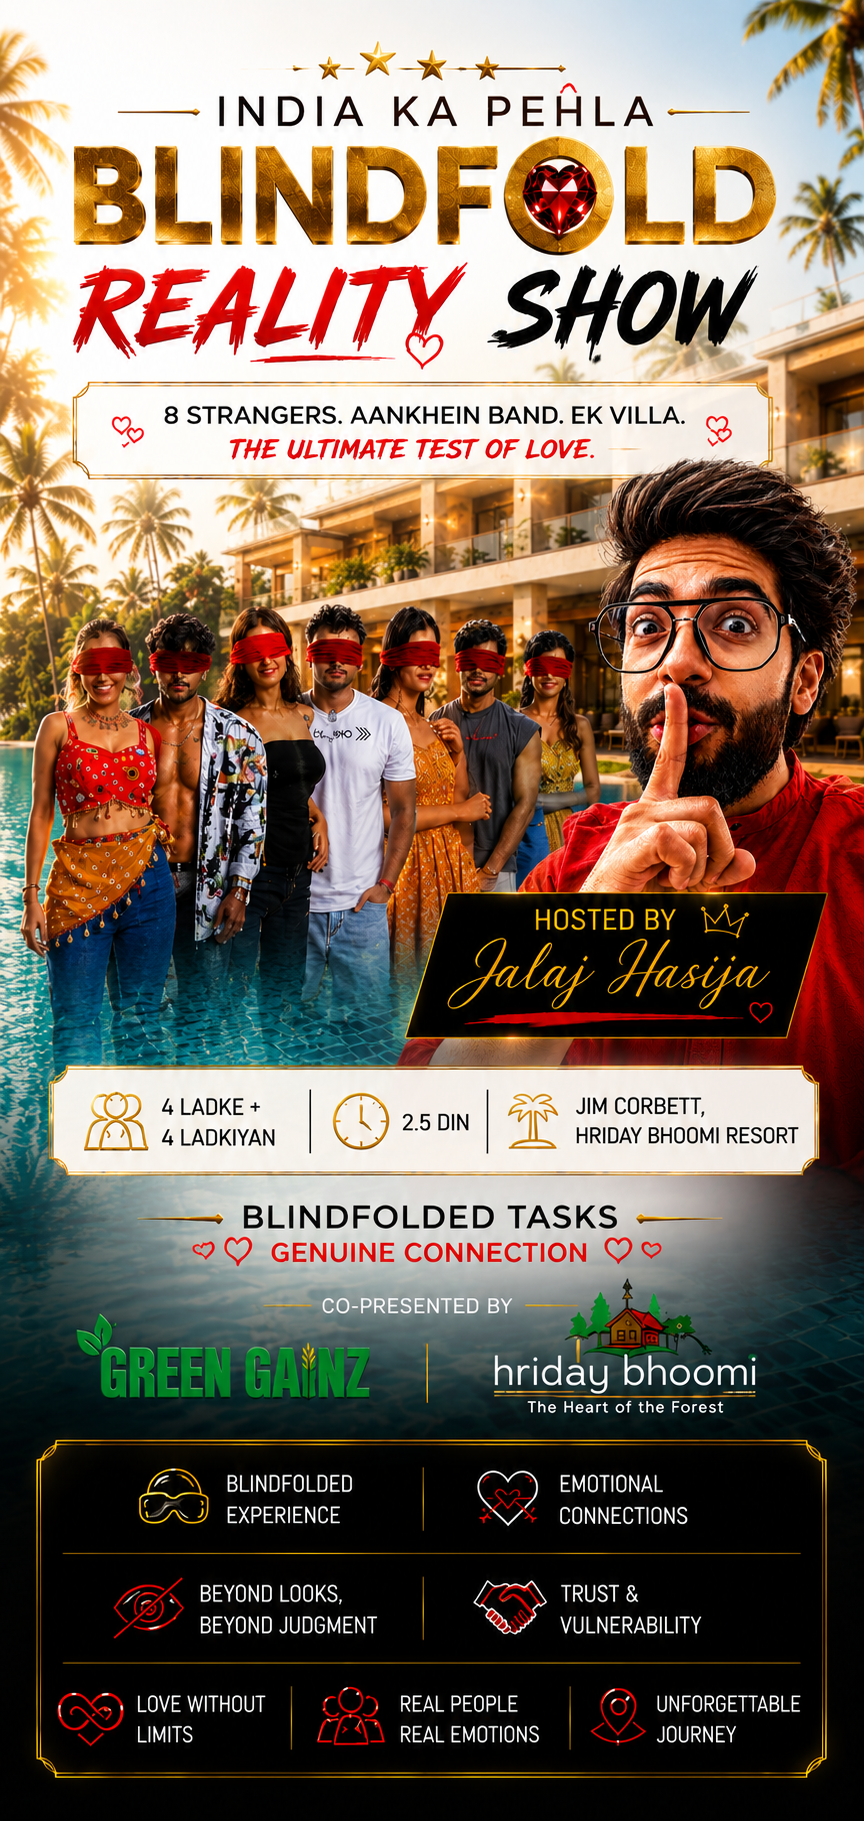
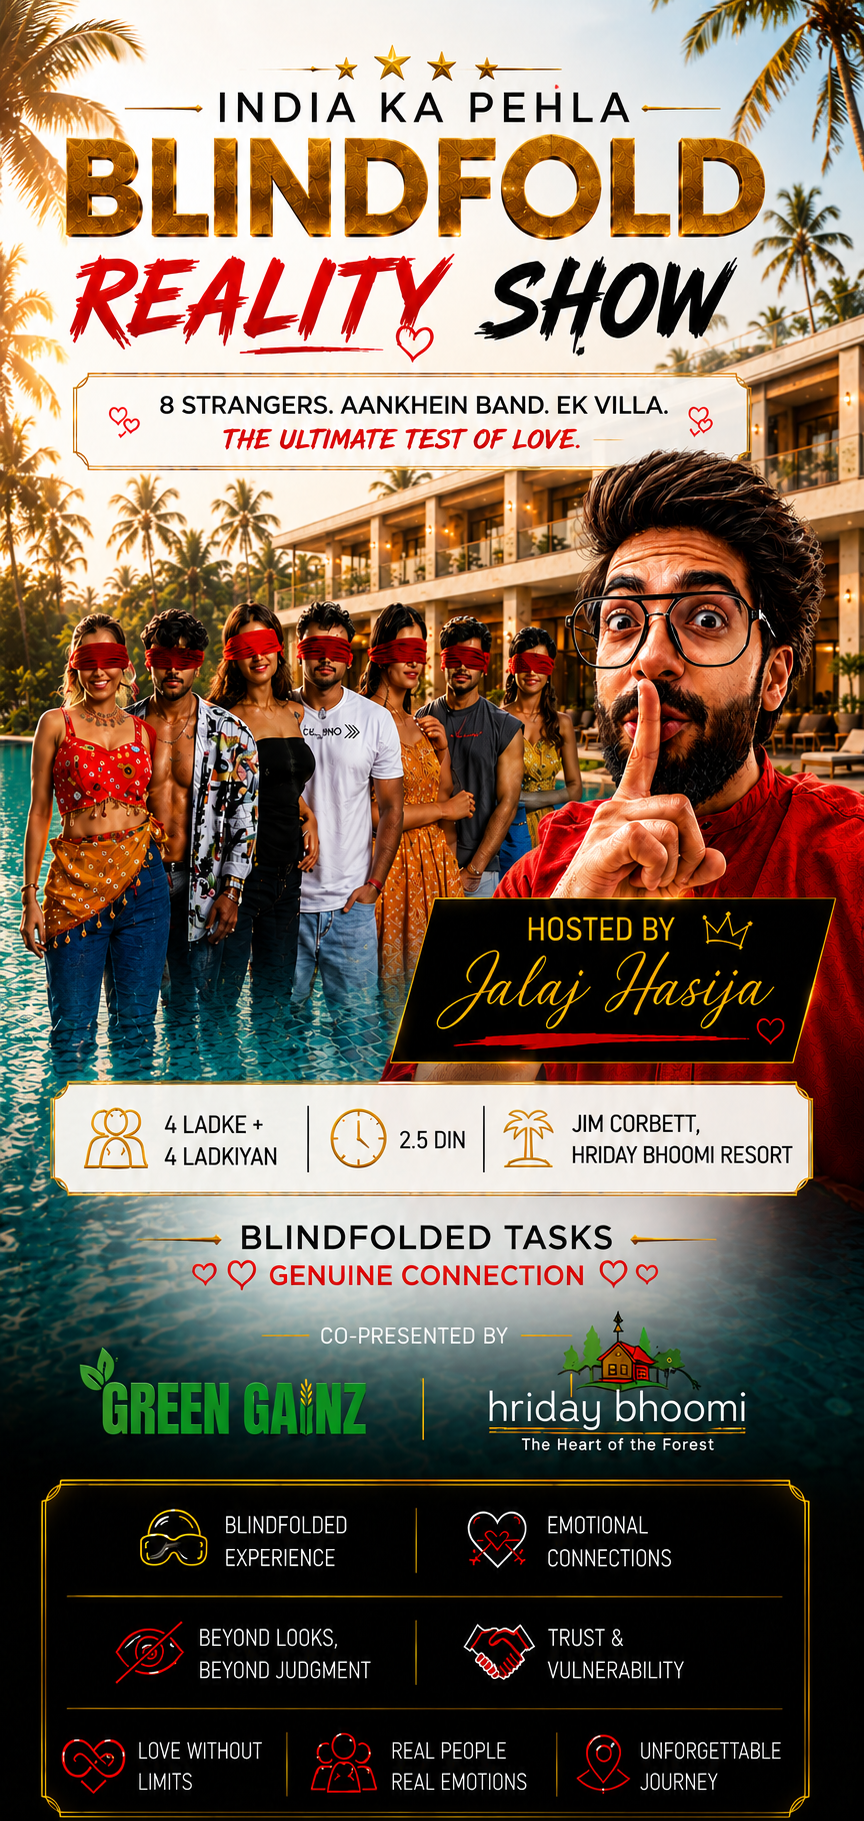
fix jalaj edit

diff --git a/src/app/Data.js b/src/app/Data.js
@@ -1,10 +1,10 @@
 // ─── Blindfold Villa Data ─────────────────────────────────────────────────────
 
 export const NAV_LINKS = [
-  { label: "About",       href: "#about" },
+  { label: "About", href: "#about" },
   { label: "Contestants", href: "#contestants" },
-  { label: "Episodes",    href: "#episodes" },
-  { label: "Tasks",       href: "#tasks" },
+  { label: "Episodes", href: "#episodes" },
+  { label: "Tasks", href: "#tasks" },
 ];
 
 export const HERO_TAGLINES = [
@@ -14,14 +14,14 @@ export const HERO_TAGLINES = [
 ];
 
 export const CONTESTANTS = [
-  { img: "/contestant4.jpeg",  name: "Manpreet Singh",  archetype: "The Playboy",       archetypeColor: "#cc0022", oneliner: "Charisma is a weapon. He knows how to use it.",     gender: "male" },
-  { img: "/contestant1.jpeg",  name: "Shrerry Ranjan",  archetype: "The Manipulator",   archetypeColor: "#cc0022", oneliner: "She never shows her cards. Until it's too late.",    gender: "female" },
-  { img: "/contestant2.jpeg",  name: "Shweta Panchal",  archetype: "The Silent Killer", archetypeColor: "#cc0022", oneliner: "Says the least. Feels the most. Wins the game.",    gender: "female" },
-  { img: "/contestant5.jpeg",  name: "Yashika Tyagi",  archetype: "The Green Flag",    archetypeColor: "#cc0022", oneliner: "Too good to be true? Or exactly what he seems?",    gender: "male" },
-  { img: "/contestant3.jpeg", name: "Prashasti Pathak", archetype: "The Overthinker",   archetypeColor: "#ff6600", oneliner: "Logic versus emotion. He's losing the battle.",      gender: "male" },
-  { img: "/sushant.jpeg",  name: "Sushant Sharma",  archetype: "The Wildcard",      archetypeColor: "#ff6600", oneliner: "No one predicted her. No one was ready.",            gender: "female" },
-  { img: "/naman.jpeg",  name: "Naman Sachdeva",  archetype: "The Protector",     archetypeColor: "#ff6600", oneliner: "He came to connect. He stayed to defend.",           gender: "male" },
-  { img: "/contestant6.jpeg",  name: "Tushar Mehra",  archetype: "The Heartbreaker",  archetypeColor: "#ff6600", oneliner: "She didn't mean to. She never does.",               gender: "female" },
+  { img: "/contestant4.jpeg", name: "Manpreet Singh", archetype: "The Playboy", archetypeColor: "#cc0022", oneliner: "Charisma is a weapon. He knows how to use it.", gender: "male" },
+  { img: "/contestant1.jpeg", name: "Shrerry Ranjan", archetype: "The Manipulator", archetypeColor: "#cc0022", oneliner: "She never shows her cards. Until it's too late.", gender: "female" },
+  { img: "/contestant2.jpeg", name: "Shweta Panchal", archetype: "The Silent Killer", archetypeColor: "#cc0022", oneliner: "Says the least. Feels the most. Wins the game.", gender: "female" },
+  { img: "/contestant5.jpeg", name: "Yashika Tyagi", archetype: "The Green Flag", archetypeColor: "#cc0022", oneliner: "Too good to be true? Or exactly what he seems?", gender: "male" },
+  { img: "/contestant3.jpeg", name: "Prashasti Pathak", archetype: "The Overthinker", archetypeColor: "#ff6600", oneliner: "Logic versus emotion. He's losing the battle.", gender: "male" },
+  { img: "/sushant.jpeg", name: "Sushant Sharma", archetype: "The Wildcard", archetypeColor: "#ff6600", oneliner: "No one predicted her. No one was ready.", gender: "female" },
+  { img: "/naman.jpeg", name: "Naman Sachdeva", archetype: "The Protector", archetypeColor: "#ff6600", oneliner: "He came to connect. He stayed to defend.", gender: "male" },
+  { img: "/contestant6.jpeg", name: "Tushar Mehra", archetype: "The Heartbreaker", archetypeColor: "#ff6600", oneliner: "She didn't mean to. She never does.", gender: "female" },
 ];
 
 export const TENSION_UPDATES = [
@@ -35,9 +35,9 @@ export const TENSION_UPDATES = [
 
 export const TASKS = [
   { icon: "👁", title: "Blindfold Touch Identification", desc: "Aankhein band — sirf touch se partner ka unique feature pehchano aur describe karo" },
-  { icon: "🧊", title: "Baraf Paani",                    desc: "Barf ke thande paani mein se real coins nikalo — 45 seconds — coins pe Vaseline lagi hai — almost impossible" },
-  { icon: "⚽", title: "I Got The Balls",                desc: "Dono partners ka ek ek haath aapas mein bandha tha — sirf ek free haath se 20 balls collect karni thi — time ke against" },
-  { icon: "💦", title: "Get Wet Soon",                   desc: "Pool related water challenge — blindfold mein speed aur coordination ka ultimate test" },
+  { icon: "🧊", title: "Baraf Paani", desc: "Barf ke thande paani mein se real coins nikalo — 45 seconds — coins pe Vaseline lagi hai — almost impossible" },
+  { icon: "⚽", title: "I Got The Balls", desc: "Dono partners ka ek ek haath aapas mein bandha tha — sirf ek free haath se 20 balls collect karni thi — time ke against" },
+  { icon: "💦", title: "Get Wet Soon", desc: "Pool related water challenge — blindfold mein speed aur coordination ka ultimate test" },
 ];
 
 export const EPISODES = [
@@ -47,15 +47,15 @@ export const EPISODES = [
 ];
 
 export const SPONSORS = [
-  { name: "Green Gainz",   tagline: "Co-Powered By" },
+  { name: "Green Gainz", tagline: "Co-Powered By" },
   { name: "Hriday Bhoomi", tagline: "Venue Partner" },
 ];
 
 export const SOCIAL_LINKS = [
-  { label: "Instagram", handle: "@blindfoldvilla",      url: "https://instagram.com/blindfoldvilla", icon: "IG" },
-  { label: "Instagram", handle: "@jalajhasija",         url: "https://instagram.com/jalajhasija",    icon: "IG" },
-  { label: "YouTube",   handle: "Jalaj Hasija Vlogs",   url: "https://youtube.com",                  icon: "YT" },
-  { label: "Twitter/X", handle: "@JalajHasija",         url: "https://twitter.com/jalajhasija",      icon: "X"  },
+  { label: "Instagram", handle: "@blindfoldvilla", url: "https://instagram.com/blindfoldvilla", icon: "IG" },
+  { label: "Instagram", handle: "@jalajhasija", url: "https://instagram.com/jalajhasija", icon: "IG" },
+  { label: "YouTube", handle: "Jalaj Hasija Vlogs", url: "https://youtube.com", icon: "YT" },
+  { label: "Twitter/X", handle: "@JalajHasija", url: "https://twitter.com/jalajhasija", icon: "X" },
 ];
 
 export const NOTIFICATIONS = [

diff --git a/src/app/layout.js b/src/app/layout.js
@@ -1,5 +1,5 @@
 import "./globals.css";
-import TopBar from "./Components/TopBar";
+// import TopBar from "./Components/TopBar";
 import Navbar from "./Components/Navbar";
 import Footer from "./Components/Footer";
 
@@ -18,7 +18,7 @@ export default function RootLayout({ children }) {
         />
       </head>
       <body className="antialiased">
-        <TopBar />
+        {/* <TopBar /> */}
         <Navbar />
         {children}
         <Footer />

diff --git a/src/app/Components/Navbar.jsx b/src/app/Components/Navbar.jsx
@@ -23,7 +23,7 @@ const Navbar = () => {
     <nav
       className="fixed left-0 right-0 z-50 transition-all duration-500"
       style={{
-        top: "36px",
+        // top: "36px",
         background: scrolled ? "rgba(10,5,5,0.97)" : "rgba(10,5,5,0.6)",
         backdropFilter: "blur(20px)",
         borderBottom: scrolled ? "1px solid rgba(201,168,76,0.25)" : "1px solid rgba(201,168,76,0.08)",
